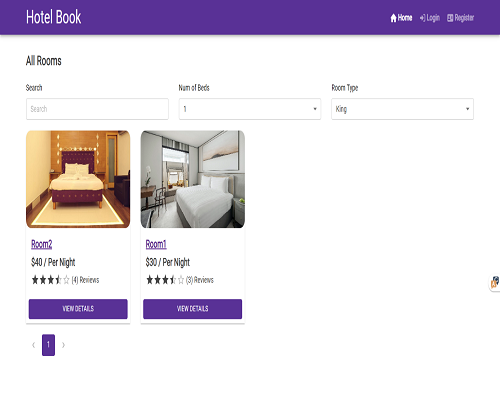
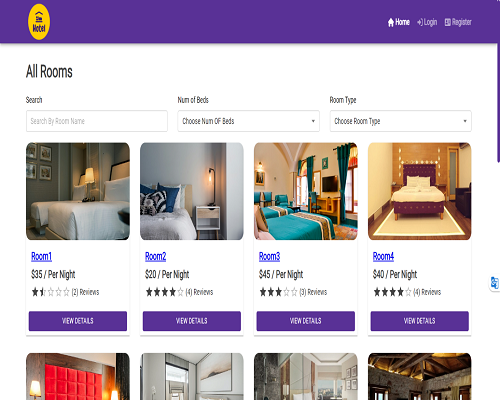
add img

diff --git a/src/db.js b/src/db.js
@@ -61,15 +61,6 @@ const sitesInfo=[
     },
     
     {
-        id:12,
-        label:"REACTJS",
-        class:"ALL REACTJS",
-        siteUrl:'https://jobsportalapp.netlify.app',
-        githubUrl:'https://github.com/AhmedAdel1999/jobportal',
-        imgUrl:img12,
-        siteName:"recruitment system"
-    },
-    {
         id:11,
         label:"REACTJS",
         class:"ALL REACTJS",
@@ -78,7 +69,15 @@ const sitesInfo=[
         imgUrl:img11,
         siteName:"hotel system"
     },
-    
+    {
+        id:12,
+        label:"REACTJS",
+        class:"ALL REACTJS",
+        siteUrl:'https://jobsportalapp.netlify.app',
+        githubUrl:'https://github.com/AhmedAdel1999/jobportal',
+        imgUrl:img12,
+        siteName:"recruitment system"
+    },
     
     
     // {